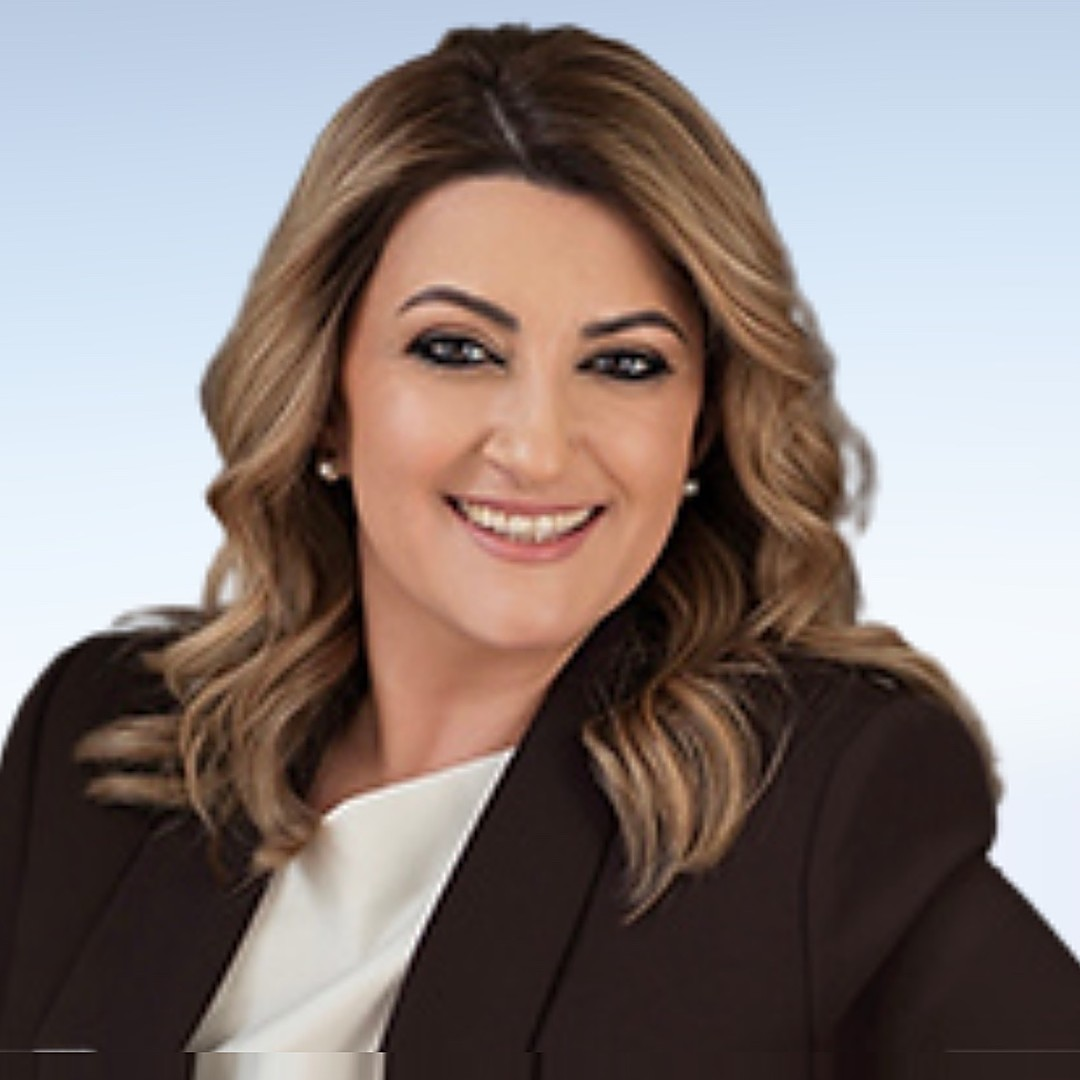
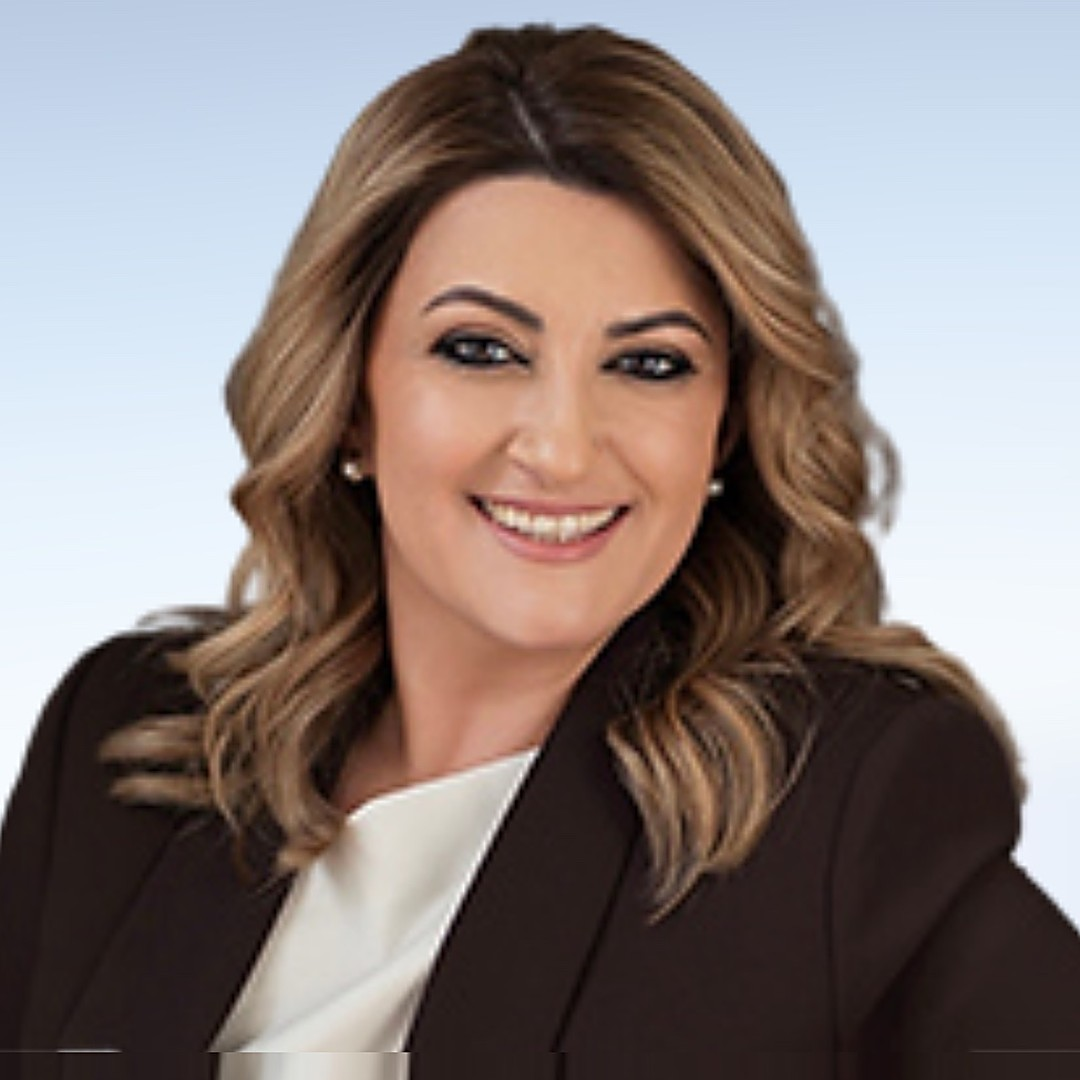
Shift Vanda Ayrapetyan's photo slightly right
Claude-Session: https://claude.ai/code/session_01UY2yYSyHezMTLTrkPybDFD

Changed region(s): [[0.0, 0.0, 1.0, 1.0], [0.3972, 0.55, 0.4889, 0.6111]]

diff --git a/team.html b/team.html
@@ -334,7 +334,7 @@
           <a class="more" href="adlea-board-bios.html#ani-gemalmazyan">Learn more &#8594;</a>
         </div>
         <div class="team-card">
-          <div class="team-photo"><img src="assets/vanda-ayrapetyan.jpg?v=4" alt="Vanda Ayrapetyan, Director"></div>
+          <div class="team-photo"><img src="assets/vanda-ayrapetyan.jpg?v=5" alt="Vanda Ayrapetyan, Director"></div>
           <h3>Vanda Ayrapetyan</h3>
           <p class="role role-voting">Director <svg class="vote-icon" viewBox="0 0 24 24" fill="none" stroke="currentColor" stroke-width="1.6" stroke-linecap="round" stroke-linejoin="round" aria-hidden="true"><path d="M12 3 5 6v5.5c0 4.4 3 7.8 7 9.5 4-1.7 7-5.1 7-9.5V6Z"/><path d="m9 12 2 2 4-4.5"/></svg><span class="sr-only"> (voting member of the Board of Directors)</span></p>
           <a class="more" href="adlea-board-bios.html#vanda-ayrapetyan">Learn more &#8594;</a>
